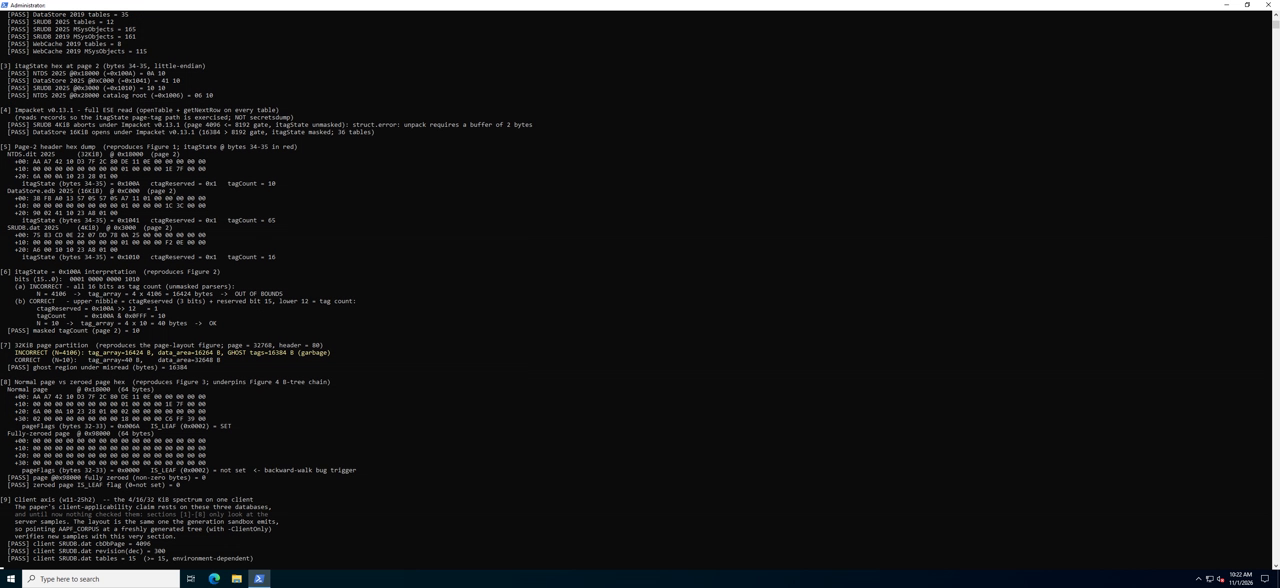
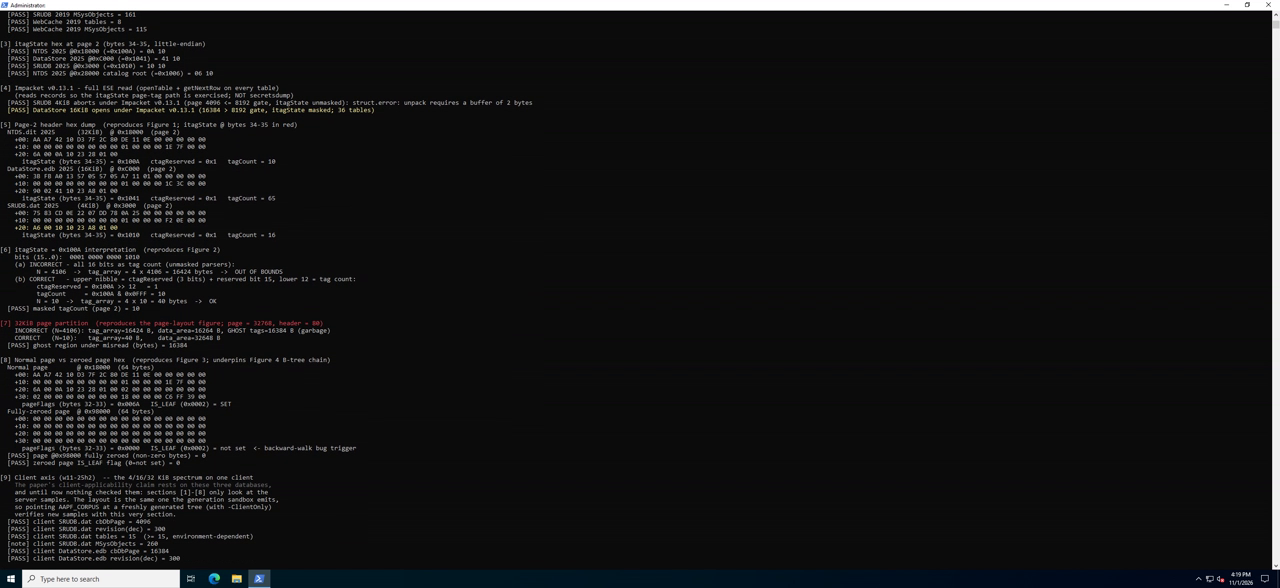
release: gate the itagState mask on format revision 0x010E; poneglyph 0.2.4
The patch now compares against 0x010E, where Microsoft's sysver.cxx maps
JET_efvReservedTags (database version 1568.270), instead of the observed
0x0122 that upstream libesedb still uses. poneglyph.exe, the Fix 2 ablation
pair and fix2_ablation.txt are rebuilt from poneglyph 0.2.4 (22/22
identical). The verification run was repeated with the new binary: 69 PASS
/ 0 FAIL, transcript unchanged apart from timestamps; evidence, frames,
recording and MANIFEST.md replaced. README, CONTRIBUTING, patches/README,
CHANGELOG, CITATION.cff, .zenodo.json, BUILD.md and the reproduction notes
carry the new threshold and version; the two 0.2.3-era records keep a
header note instead of being rewritten.

Changed region(s): [[0.0, 0.0, 0.4062, 0.9796], [0.1562, 0.949, 0.1875, 0.9796]]

diff --git a/MANIFEST.md b/MANIFEST.md
@@ -1,14 +1,14 @@
 # File Manifest
 
-Generated by `tools/package.ps1` on 2026-11-01.
+Generated by `tools/package.ps1` on 2026-11-02.
 
 All files SHA-256 hashed. Sizes in bytes.
 
 | Path | Size | SHA-256 |
 |---|---:|---|
[9 lines of base64/hex data omitted]
@@ -16,24 +16,24 @@ All files SHA-256 hashed. Sizes in bytes.
[35 lines of base64/hex data omitted]
@@ -41,12 +41,12 @@ All files SHA-256 hashed. Sizes in bytes.
[18 lines of base64/hex data omitted]
@@ -270,4 +270,4 @@ All files SHA-256 hashed. Sizes in bytes.
[2 lines of base64/hex data omitted]
 
-**Total**: 263 files, 992300295 bytes (946.3 MB).
+**Total**: 263 files, 992524852 bytes (946.5 MB).

diff --git a/patches/README.md b/patches/README.md
@@ -17,9 +17,9 @@ Apply in the numeric order of the filename prefixes (`001-`, `002-`, …):
 
 ### `003-ws2025-itag-state.patch` (format-revision-gated `itagState` mask)
 
-The core patch of the paper. Modifies `libesedb/libesedb_page_header.c` to mask the `available_page_tag` field with `0x0FFF` immediately after reading it, **gated on the ESE format revision** (`io_handle->format_revision >= 0x0122`) rather than on page size.
+The core patch of the paper. Modifies `libesedb/libesedb_page_header.c` to mask the `available_page_tag` field with `0x0FFF` immediately after reading it, **gated on the ESE format revision** (`io_handle->format_revision >= 0x010E`) rather than on page size. The threshold is the engine's own: Microsoft's `sysver.cxx` maps `JET_efvReservedTags` to database version 1568.270, i.e. update-major `0x010E`. The lowest revision observed in shipped databases is `0x0122` (Windows Server 2025 `NTDS.dit`), which is the value upstream libesedb gates on; moving to `0x010E` changes no result on this corpus.
 
-Gating on the format revision is required to resolve the WS2025 16 KiB `DataStore.edb` and 4 KiB `SRUDB.dat` failures reported in Sections 6 and 7 of the companion paper: those databases report revision `0x012C`, which a page-size gate (`page_size >= 32768`, as in Fox-IT's `dissect.esedb` PR #46) misses. WS2025 `NTDS.dit` reports `0x0122`; all WS2025 artifacts are therefore `>= 0x0122`.
+Gating on the format revision is required to resolve the WS2025 16 KiB `DataStore.edb` and 4 KiB `SRUDB.dat` failures reported in Sections 6 and 7 of the companion paper: those databases report revision `0x012C`, which a page-size gate (`page_size >= 32768`, as in Fox-IT's `dissect.esedb` PR #46) misses. WS2025 `NTDS.dit` reports `0x0122`; all WS2025 artifacts are therefore above the gate.
 
 Backward compatibility is preserved **by construction**: pre-WS2025 databases report revision `0x0014`, so the gate never fires and the mask is a guaranteed no-op — including on dense 32 KiB legacy pages whose tag count could exceed the 12-bit field and be truncated by an unconditional mask.
 

diff --git a/README.md b/README.md
@@ -86,7 +86,7 @@ A pre-computed `expected_outputs.txt` is included so reviewers can verify their 
 
 ## Notable findings reproducible from this record
 
-1. **Format-revision-gated patch validation** — applying the `itagState` mask gated on the ESE format revision (`>= 0x0122`, not on a `page_size >= 32768` gate) resolves WS2025 16 KiB `DataStore.edb` and 4 KiB `SRUDB.dat` parsing failures that page-size-gated community fixes (e.g., dissect.esedb PR #46, Impacket) leave unaddressed. After we reported the defect, upstream `libesedb` incorporated an equivalent revision-gated fix in **release 20260704** (commit `768a0474`); these patches reproduce the paper's pinned build.
+1. **Format-revision-gated patch validation** — applying the `itagState` mask gated on the ESE format revision (`>= 0x010E`, the revision at which Microsoft's engine source introduces reserved tags; not on a `page_size >= 32768` gate) resolves WS2025 16 KiB `DataStore.edb` and 4 KiB `SRUDB.dat` parsing failures that page-size-gated community fixes (e.g., dissect.esedb PR #46, Impacket) leave unaddressed. After we reported the defect, upstream `libesedb` incorporated an equivalent revision-gated fix in **release 20260704** (commit `768a0474`); these patches reproduce the paper's pinned build.
 
 2. **Cross-page-size scope of the `itagState` reinterpretation** — the upper 4 bits of `itagState` (`ctagReserved`) are observed to be `0x0` on every WS2019 sample in the record and `0x1` on every WS2025 sample inspected, across 4 KiB, 16 KiB, and 32 KiB pages alike. The format change is *not* page-size-induced; it is OS-version-induced. It is also *not* server-only: a synthetic Windows 11 24H2+ client (`samples/resource/w11-25h2`, `samples/health/w11-25h2`) carries the identical format revision `0x012C`, and the latest Impacket (v0.13.1) still fails on its 4 KiB `SRUDB.dat` while the revision-gated `libesedb` recovers all 15 tables (`reproduction/client_applicability.txt`).
 

diff --git a/poneglyph/BUILD.md b/poneglyph/BUILD.md
@@ -28,7 +28,7 @@ Verify by running `cargo metadata` and confirming that `libesedb-sys` resolves t
 
 ## Step 2 — Poneglyph source
 
-Clone Poneglyph from https://github.com/takker-hero-se/Poneglyph . Reference release: v0.2.3.
+Clone Poneglyph from https://github.com/takker-hero-se/Poneglyph . Reference release: v0.2.4 (gate moved to `0x010E`; v0.2.3 gated on `0x0122`).
 
 ## Step 3 — Build
 
@@ -74,8 +74,8 @@ rather than taken on trust:
 | `poneglyph-withfix2.exe` | 001-006 | Fix 1 (revision-gated `itagState` mask) **and** Fix 2 (B-tree `IS_LEAF` guard) |
 | `poneglyph-nofix2.exe` | 001-005 | Fix 1 only; patch `006-ws2025-btree` removed |
 
-Both were built on 2026-09-24 from one source tree (poneglyph 0.2.3), so the
-only difference between them is Fix 2. Running both over every sample in
+Both were built on 2026-11-02 from one source tree (poneglyph 0.2.4, itagState
+gate at format revision 0x010E), so the only difference between them is Fix 2. Running both over every sample in
 `samples/` gives identical table and record counts on all 22 of them, in every
 acquisition state, on both server editions and on the Windows 11 client.
 
@@ -86,6 +86,5 @@ Its triggering condition was observed once, in a dirty 32 KiB acquisition that
 is not part of the deposit, so a reviewer cannot reproduce the abort it
 prevents from these artifacts alone.
 
-Note that `poneglyph.exe` (the 0.2.3 release binary shipped here) is a third,
-earlier build and hashes differently from both; it is not one of the two
-compared above.
+`poneglyph.exe` is byte-identical to `poneglyph-withfix2.exe`: both are the
+0.2.4 release build carrying all six patches.

diff --git a/CONTRIBUTING.md b/CONTRIBUTING.md
@@ -8,7 +8,7 @@ This repository is the companion artifact for the FSI:DI 2026 paper *Evidence Lo
 
 1. **Extend AAPF coverage** — additional ESE artifacts (Windows Search `Windows.edb`, Exchange `priv.edb`, Lync archives), additional OS versions, additional snapshot states.
 2. **Improve reproduction** — port `reproduction/*.ps1` to bash for Linux examiners, add Jupyter notebooks for visual inspection, add Docker images for reproducibility.
-3. **Strengthen the patches** — `003-ws2025-itag-state.patch` now gates the mask on the ESE format revision (`>= 0x0122`); further refinements, bug fixes, or performance improvements are welcome.
+3. **Strengthen the patches** — `003-ws2025-itag-state.patch` now gates the mask on the ESE format revision (`>= 0x010E`, the engine's own threshold; upstream libesedb uses the observed `0x0122`); further refinements, bug fixes, or performance improvements are welcome.
 4. **Document related findings** — additional ESE format changes you have identified in WS2025, WS2026, or future Microsoft releases.
 5. **Translate documentation** — Japanese, Korean, Chinese translations of the README and reproduction guides are especially welcome.
 

diff --git a/reproduction/REPRODUCE.md b/reproduction/REPRODUCE.md
@@ -30,7 +30,7 @@ The two scripts together complete in approximately 5 minutes on a modern Windows
 | Credential value fidelity (decrypted NT/LM hashes, not just record counts) | Run `poneglyph.exe hashes` (v0.2.3, `poneglyph/poneglyph.exe`) and Impacket `secretsdump.py` v0.13.1 on both NTDS.dit samples; compare NT hashes per RID | `hash_value_validation.txt` — 2{,}494/2{,}494 (WS2019) and 2{,}492/2{,}492 (WS2025) byte-for-byte matches, zero mismatches |
 | Client-side applicability (the format change is not server-only) | Run `poneglyph.exe info` and the Impacket ESE probe on the synthetic Windows 11 24H2+ client samples under `samples/{resource,health,activity}/w11-25h2/` | `client_applicability.txt` — 4/16/32 KiB all at revision `0x012C`; Impacket v0.13.1 still fails on the 4 KiB `SRUDB.dat` while the patch recovers all 15 tables |
 
-## Value fidelity and client applicability (poneglyph 0.2.3)
+## Value fidelity and client applicability (poneglyph 0.2.3, re-derived by the sandbox with 0.2.4)
 
 Two verification artifacts extend the count-based Table 5 checks. Both are
 pre-computed and shipped in this directory; the commands below regenerate them.

diff --git a/reproduction/VERIFICATION.md b/reproduction/VERIFICATION.md
@@ -20,7 +20,7 @@ Everything below is regenerable from this record alone — see
 |---|---|
 | Guest OS | Windows Server 2022 Standard (Vagrant box `gusztavvargadr/windows-server-2022-standard`) |
 | Isolation | Private VM; no inbound network; corpus mounted read-only via HGFS |
-| Parser under test (patched) | `poneglyph.exe` v0.2.3 (revision-gated `libesedb`) |
+| Parser under test (patched) | `poneglyph.exe` v0.2.4 (revision-gated `libesedb`, gate `>= 0x010E`) |
 | Comparison parser | Impacket **v0.13.1** (`impacket.ese.ESENT_DB`) |
 | Native cross-check | Windows `esentutl /mh` |
 | Corpus | the `samples/` tree of this record (Clean state) |
@@ -101,7 +101,7 @@ in full.
 
 ## Video
 
-The full screen recording of the run (`[0]`–`[11]` in a live console, 1 min 57 s) is
+The full screen recording of the run (`[0]`–`[11]` in a live console, 2 min 30 s) is
 `verification-evidence/verification-final-69pass.mp4`. It is distributed with the
 **Zenodo record only** (kept out of the Git repository for size); the three
 screenshots above are frames extracted from it.

diff --git a/CHANGELOG.md b/CHANGELOG.md
@@ -39,6 +39,13 @@ v1.0.0 record (2026-06-22) and is now in the record.
 
 ### Changed
 
+- **The revision gate in `003-ws2025-itag-state.patch` moved from `0x0122` to `0x010E`**
+  (2026-11-02). `0x010E` is where Microsoft's engine-version table
+  (`sysver.cxx`, `JET_efvReservedTags` = 1568.270) introduces reserved tags;
+  `0x0122` was the lowest revision observed in shipped databases and remains
+  upstream libesedb's threshold. No result on the 22 samples changes, since the
+  lowest affected revision in the record is `0x0122`. `poneglyph.exe` and the
+  Fix 2 ablation pair are rebuilt from poneglyph 0.2.4 with the moved gate.
 - The sandbox now runs **69 assertions** rather than the original 32. The added
   sections are three negative controls that must trip, the client axis, a
   credential value-fidelity cross-check that re-derives the Poneglyph/Impacket
